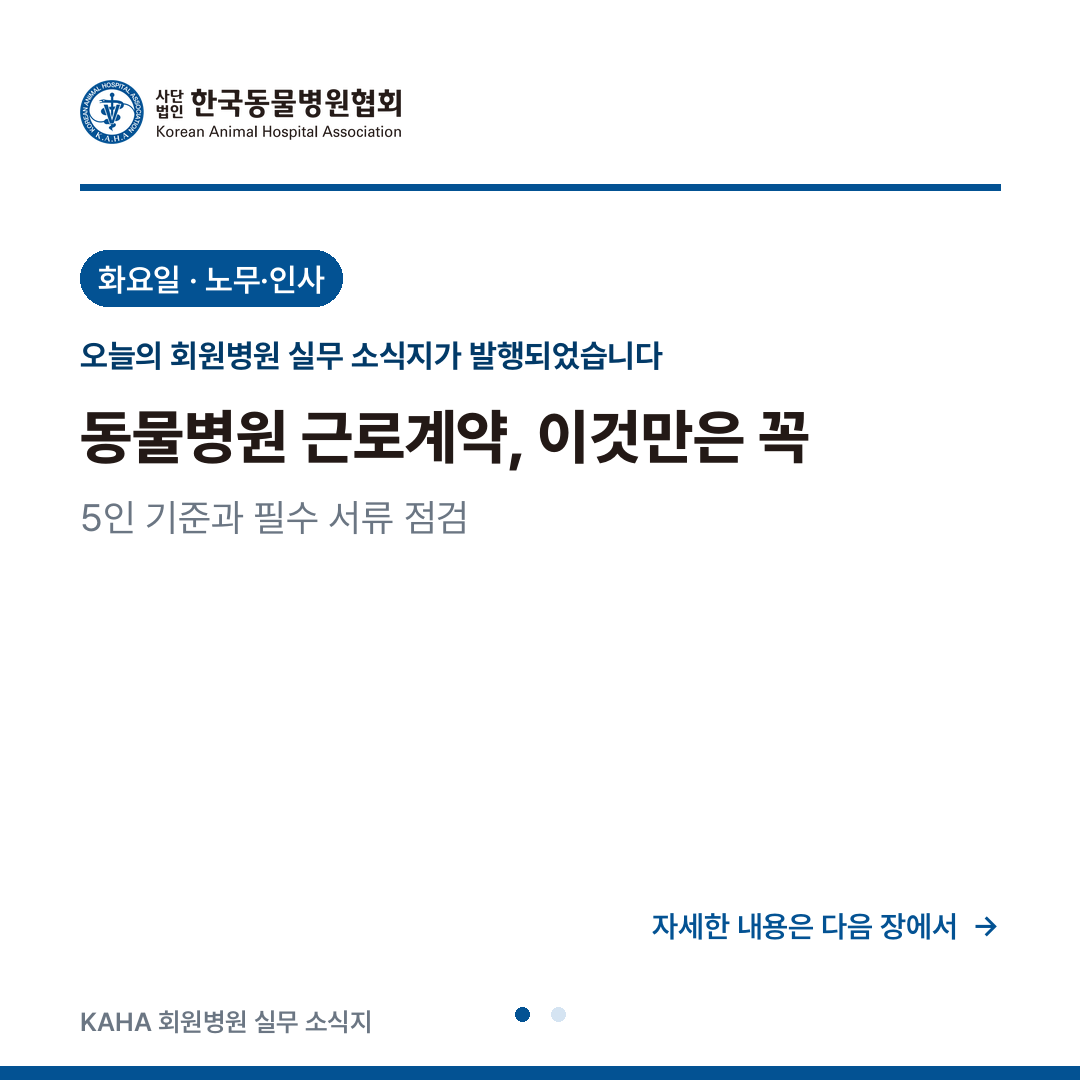
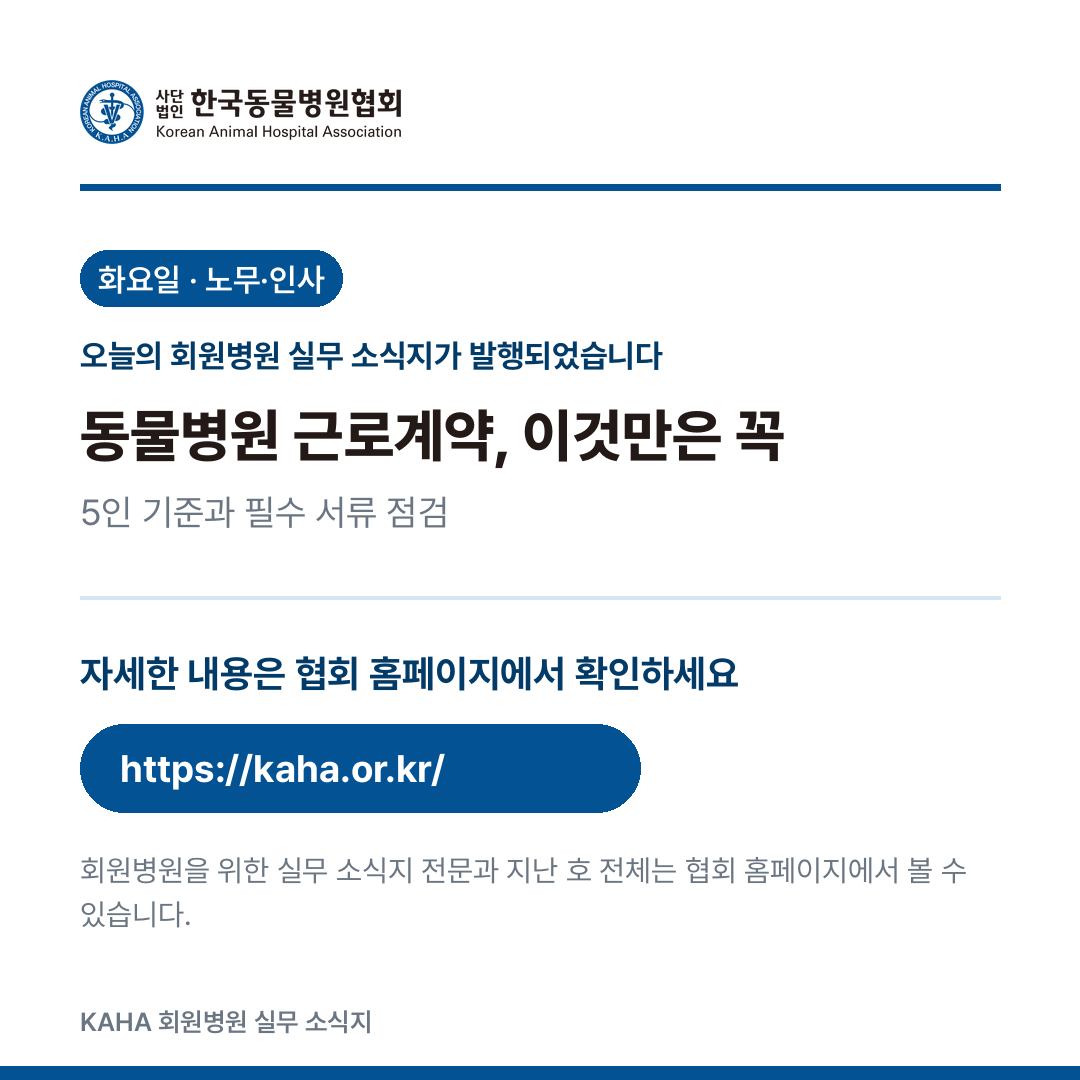
인스타그램 카드뉴스를 1장으로 통합 (전 호 소급 적용)
2장(표지+홈페이지 안내)으로 나눠져 있던 발행 안내 카드를 한 장에
담도록 합쳤다. 제목·부제·요일/테마 아래에 구분선을 두고 홈페이지
유도 문구·링크 버튼을 이어 붙이는 구성이며, 25개 기존 호 전체를
재생성했다.

- tools/make_cards.py: 카드 1장만 생성하도록 레이아웃 재구성,
  footer()에서 페이지 점 표시 제거
- 각 issues/*.md의 인스타그램 카드뉴스 섹션을 이미지 1장 참조로 수정
- README 발행 절차·카드뉴스 원칙 절의 "2장" 표기를 "1장"으로 정정

diff --git a/tools/make_cards.py b/tools/make_cards.py
@@ -1,13 +1,13 @@
 # -*- coding: utf-8 -*-
-"""인스타그램 카드뉴스(1080×1080) 생성 — 발행 안내 전용(2026-08-21 개편).
+"""인스타그램 카드뉴스(1080×1080) 생성 — 발행 안내 전용 1장(2026-08-23 개편).
 
 인스타그램은 회원병원뿐 아니라 보호자 등 일반 대중도 볼 수 있으므로,
 카드에는 조문·수치 등 소식지 세부 내용을 싣지 않는다. "오늘 이런 주제로
-발행되었다"는 안내와 협회 홈페이지 링크만 담는다. 세부 내용은 홈페이지에서
-확인하도록 유도한다.
+발행되었다"는 안내와 협회 홈페이지 링크만 한 장에 담는다. 세부 내용은
+홈페이지에서 확인하도록 유도한다.
 
 tools/cards_data.json의 호별 데이터(제목·부제)를 읽어 cards/<날짜>/ 아래에
-표지 카드 1장 + 홈페이지 안내 카드 1장, caption.txt를 만든다.
+안내 카드 1장, caption.txt를 만든다.
 디자인은 소식지·양식과 같은 브랜드 팔레트(KAHA 블루 #035293)를 쓴다.
 필요: Pillow, 시스템 폰트 fonts-nanum.
 """
@@ -92,15 +92,9 @@ def base_card():
     img = Image.new("RGB", (SIZE, SIZE), WHITE)
     return img, ImageDraw.Draw(img)
 
-def footer(img, draw, page, total):
+def footer(img, draw):
     draw.rectangle([0, SIZE - 14, SIZE, SIZE], fill=BLUE)
     draw.text((80, SIZE - 74), "KAHA 회원병원 실무 소식지", font=F("semibold", 26), fill=GREY)
-    cx = SIZE // 2 - (total - 1) * 18
-    for i in range(total):
-        r = 7
-        fill = BLUE if (i + 1) == page else BLUE_LT
-        draw.ellipse([cx - r, SIZE - 66 - r, cx + r, SIZE - 66 + r], fill=fill)
-        cx += 36
 
 def chip(draw, x, y, text, font, pad=18):
     w = draw.textlength(text, font=font)
@@ -125,51 +119,41 @@ def make_set(date, data):
     os.makedirs(outdir, exist_ok=True)
     dow = datetime.date(*map(int, date.split("-"))).isoweekday()
     theme = THEMES.get(dow, "")
-    total = 2
 
-    # ── 1. 표지: 오늘 발행 안내 (제목 + 한 줄 소개만, 세부 내용 없음) ──
+    # ── 1장: 발행 안내 + 홈페이지 유도 (세부 내용 없음) ──
     img, d = base_card()
     img.paste(logo(64), (80, 80), logo(64))
     d.rectangle([80, 184, SIZE - 80, 190], fill=BLUE)
     chip(d, 80, 250, theme, F("semibold", 32))
     d.text((80, 336), "오늘의 회원병원 실무 소식지가 발행되었습니다",
            font=F("bold", 32), fill=BLUE_DK)
-    tf = F("extrabold", 60)
-    y = draw_lines(d, wrap(d, data["title"], tf, 920), 80, 400, tf, INK, 80)
-    sf = F("regular", 38)
-    y = draw_lines(d, wrap(d, data["subtitle"], sf, 920), 80, y + 14, sf, GREY, 54)
+    tf = F("extrabold", 58)
+    y = draw_lines(d, wrap(d, data["title"], tf, 920), 80, 400, tf, INK, 78)
+    sf = F("regular", 36)
+    y = draw_lines(d, wrap(d, data["subtitle"], sf, 920), 80, y + 12, sf, GREY, 50)
+
+    y += 56
+    d.rectangle([80, y, SIZE - 80, y + 3], fill=BLUE_LT)
+    y += 54
+
+    d.text((80, y), "자세한 내용은 협회 홈페이지에서 확인하세요",
+           font=F("bold", 38), fill=BLUE_DK)
+    y += 74
+    box_w, box_h = 560, 88
+    d.rounded_rectangle([80, y, 80 + box_w, y + box_h], radius=box_h // 2, fill=BLUE)
+    uf = F("bold", 38)
+    d.text((80 + 40, y + (box_h - uf.size) / 2 - 4), SITE_URL, font=uf, fill=WHITE)
+    y += box_h + 40
+    df = F("regular", 30)
+    y = draw_lines(d, wrap(d, "회원병원을 위한 실무 소식지 전문과 지난 호 전체는 협회 홈페이지에서 볼 수 있습니다.", df, 920),
+                   80, y, df, GREY, 44)
+
     if y > CONTENT_MAX_Y:
         OVERFLOW.append("%s cover: y=%d (한계 %d)" % (date, y, CONTENT_MAX_Y))
-    hint = "자세한 내용은 다음 장에서  →"
-    hw = d.textlength(hint, font=F("semibold", 30))
-    d.text((SIZE - 80 - hw, 908), hint, font=F("semibold", 30), fill=BLUE)
-    footer(img, d, page=1, total=total)
+    footer(img, d)
     img.save(os.path.join(outdir, "1-cover.png"))
 
-    # ── 2. 홈페이지 안내: 세부 내용은 협회 홈페이지에서 ──
-    img, d = base_card()
-    img.paste(logo(56), ((SIZE - logo(56).width) // 2, 130), logo(56))
-    hf = F("extrabold", 54)
-    y = draw_lines(d, ["자세한 내용은", "협회 홈페이지에서 확인하세요"],
-                   0, 320, hf, BLUE_DK, 76, center=True)
-    y += 40
-    box_w = 780
-    box_x = (SIZE - box_w) // 2
-    box_h = 96
-    d.rounded_rectangle([box_x, y, box_x + box_w, y + box_h], radius=box_h // 2, fill=BLUE)
-    uf = F("bold", 42)
-    uw = d.textlength(SITE_URL, font=uf)
-    d.text(((SIZE - uw) / 2, y + (box_h - uf.size) / 2 - 6), SITE_URL, font=uf, fill=WHITE)
-    y += box_h + 50
-    df = F("regular", 32)
-    y = draw_lines(d, ["회원병원을 위한 실무 소식지 전문과", "지난 호 전체는 협회 홈페이지에서 볼 수 있습니다."],
-                   0, y, df, GREY, 48, center=True)
-    if y > CONTENT_MAX_Y:
-        OVERFLOW.append("%s info: y=%d (한계 %d)" % (date, y, CONTENT_MAX_Y))
-    footer(img, d, page=2, total=total)
-    img.save(os.path.join(outdir, "2-info.png"))
-
-    for stale in ("3-point2.png", "4-point3.png", "5-outro.png"):
+    for stale in ("2-point1.png", "2-info.png", "3-point2.png", "4-point3.png", "5-outro.png"):
         p = os.path.join(outdir, stale)
         if os.path.exists(p):
             os.remove(p)

diff --git a/README.md b/README.md
@@ -24,7 +24,7 @@
    - 둘째 블록: 발행 정보 인용구(기존 호 형식 참고)
    - 말미에 출처와 면책 문구를 넣습니다.
 2. **팩트체크(필수)**: 아래 「발행 전 팩트체크」 절차를 수행하고 `factcheck/YYYY-MM-DD.md`에 기록을 남깁니다. 팩트체크 기록이 없는 호는 발행하지 않습니다.
-3. **인스타그램 카드뉴스(발행 안내 전용 — 2026-08-23 원장 지시)**: `tools/cards_data.json`에 해당 날짜 항목(제목·부제만)을 추가하고 `python3 tools/make_cards.py YYYY-MM-DD`로 정사각형 카드(1080×1080) **2장**(표지 + 홈페이지 안내)과 caption.txt를 생성한 뒤, 호 말미에 「인스타그램 카드뉴스」 섹션(카드 이미지 + 복사용 캡션 코드블록, 기존 호 형식 참고)을 넣습니다. 캡션은 스크립트가 제목·부제·요일·테마로 자동 생성합니다.
+3. **인스타그램 카드뉴스(발행 안내 전용 — 2026-08-23 원장 지시)**: `tools/cards_data.json`에 해당 날짜 항목(제목·부제만)을 추가하고 `python3 tools/make_cards.py YYYY-MM-DD`로 정사각형 카드(1080×1080) **1장**(발행 안내 + 홈페이지 유도)과 caption.txt를 생성한 뒤, 호 말미에 「인스타그램 카드뉴스」 섹션(카드 이미지 + 복사용 캡션 코드블록, 기존 호 형식 참고)을 넣습니다. 캡션은 스크립트가 제목·부제·요일·테마로 자동 생성합니다.
 4. `archive.json`에 날짜를 추가하고 `latest`를 갱신합니다.
 5. 양식을 만들거나 고쳤다면 **`python3 tools/check_forms.py`를 실행해 골든룰(A4 한 장)을 통과**시킵니다. 실패하면 발행하지 않습니다.
 6. main에 커밋 & 푸시하면 Vercel이 자동 배포합니다.
@@ -33,7 +33,7 @@
 
 **인스타그램은 회원병원뿐 아니라 보호자 등 일반 대중도 볼 수 있는 채널입니다.** 소식지 본문의 조문 번호·수치·법률 해석 같은 실무 세부 내용을 카드에 그대로 옮기면, 전문 지식 없는 보호자가 오해하거나 병원과의 분쟁에 인용할 소지가 있습니다. 따라서 카드뉴스는 **"오늘 이런 주제로 소식지가 발행되었다"는 안내에 그치고, 세부 내용은 신지 않습니다.**
 
-- 카드는 **2장**만 만듭니다 — ①표지(제목·부제·요일/테마), ②홈페이지 안내(`https://kaha.or.kr/`로 유도).
+- 카드는 **1장**만 만듭니다 — 제목·부제·요일/테마와 홈페이지 안내(`https://kaha.or.kr/`)를 한 장에 담습니다.
 - `tools/cards_data.json`에는 **제목·부제만** 저장합니다. 부제도 조문 번호·수치·판정 결과 등 세부 사실을 담지 않고, 주제를 가리키는 한 줄로만 씁니다.
 - 캡션은 `tools/make_cards.py`가 제목·부제·요일·테마로 자동 생성하며, 호마다 별도로 작성하지 않습니다. 해시태그도 고정(`#KAHA #한국동물병원협회 #수의사 #동물병원 #동물병원실무`)입니다.
 - 소식지 본문 자체(마크다운 `issues/`, 협회 홈페이지)에는 이 제한이 적용되지 않습니다. 세부 조문·수치·체크리스트는 그대로 싣되, 그 내용이 카드뉴스로 새어나가지 않게 합니다.

diff --git a/issues/2026-07-27.md b/issues/2026-07-27.md
@@ -42,10 +42,9 @@ AAHA(미국동물병원협회)의 2022년 개 백신 가이드라인은 aaha.org
 
 ## 인스타그램 카드뉴스
 
-인스타그램 게시용 정사각형 카드(1080×1080)입니다. 보호자 등 일반 대중도 볼 수 있는 채널이므로 세부 내용 대신 발행 안내만 담았습니다. 이미지를 저장해 순서대로 업로드하고, 아래 캡션을 붙여넣으세요.
+인스타그램 게시용 정사각형 카드(1080×1080)입니다. 보호자 등 일반 대중도 볼 수 있는 채널이므로 세부 내용 대신 발행 안내 한 장만 담았습니다. 이미지를 저장해 게시하고, 아래 캡션을 붙여넣으세요.
 
-![카드 1 — 표지](cards/2026-07-27/1-cover.png)
-![카드 2 — 홈페이지 안내](cards/2026-07-27/2-info.png)
+![카드 — 발행 안내](cards/2026-07-27/1-cover.png)
 
 **캡션 (복사용)**
 

diff --git a/issues/2026-08-05.md b/issues/2026-08-05.md
@@ -37,10 +37,9 @@ PDF 기록지는 WSAVA 스크리닝 항목을 한 장에 담았습니다: 환자
 
 ## 인스타그램 카드뉴스
 
-인스타그램 게시용 정사각형 카드(1080×1080)입니다. 보호자 등 일반 대중도 볼 수 있는 채널이므로 세부 내용 대신 발행 안내만 담았습니다. 이미지를 저장해 순서대로 업로드하고, 아래 캡션을 붙여넣으세요.
+인스타그램 게시용 정사각형 카드(1080×1080)입니다. 보호자 등 일반 대중도 볼 수 있는 채널이므로 세부 내용 대신 발행 안내 한 장만 담았습니다. 이미지를 저장해 게시하고, 아래 캡션을 붙여넣으세요.
 
-![카드 1 — 표지](cards/2026-08-05/1-cover.png)
-![카드 2 — 홈페이지 안내](cards/2026-08-05/2-info.png)
+![카드 — 발행 안내](cards/2026-08-05/1-cover.png)
 
 **캡션 (복사용)**
 

diff --git a/issues/2026-08-17.md b/issues/2026-08-17.md
@@ -53,10 +53,9 @@ AAHA(미국동물병원협회)가 2023년 **노령동물 관리 가이드라인(
 
 ## 인스타그램 카드뉴스
 
-인스타그램 게시용 정사각형 카드(1080×1080)입니다. 보호자 등 일반 대중도 볼 수 있는 채널이므로 세부 내용 대신 발행 안내만 담았습니다. 이미지를 저장해 순서대로 업로드하고, 아래 캡션을 붙여넣으세요.
+인스타그램 게시용 정사각형 카드(1080×1080)입니다. 보호자 등 일반 대중도 볼 수 있는 채널이므로 세부 내용 대신 발행 안내 한 장만 담았습니다. 이미지를 저장해 게시하고, 아래 캡션을 붙여넣으세요.
 
-![카드 1 — 표지](cards/2026-08-17/1-cover.png)
-![카드 2 — 홈페이지 안내](cards/2026-08-17/2-info.png)
+![카드 — 발행 안내](cards/2026-08-17/1-cover.png)
 
 **캡션 (복사용)**
 

diff --git a/issues/2026-08-12.md b/issues/2026-08-12.md
@@ -89,10 +89,9 @@ ASA 신체상태 분류 (해당 등급에 표시)
 
 ## 인스타그램 카드뉴스
 
-인스타그램 게시용 정사각형 카드(1080×1080)입니다. 보호자 등 일반 대중도 볼 수 있는 채널이므로 세부 내용 대신 발행 안내만 담았습니다. 이미지를 저장해 순서대로 업로드하고, 아래 캡션을 붙여넣으세요.
+인스타그램 게시용 정사각형 카드(1080×1080)입니다. 보호자 등 일반 대중도 볼 수 있는 채널이므로 세부 내용 대신 발행 안내 한 장만 담았습니다. 이미지를 저장해 게시하고, 아래 캡션을 붙여넣으세요.
 
-![카드 1 — 표지](cards/2026-08-12/1-cover.png)
-![카드 2 — 홈페이지 안내](cards/2026-08-12/2-info.png)
+![카드 — 발행 안내](cards/2026-08-12/1-cover.png)
 
 **캡션 (복사용)**
 

diff --git a/issues/2026-08-18.md b/issues/2026-08-18.md
@@ -106,10 +106,9 @@
 
 ## 인스타그램 카드뉴스
 
-인스타그램 게시용 정사각형 카드(1080×1080)입니다. 보호자 등 일반 대중도 볼 수 있는 채널이므로 세부 내용 대신 발행 안내만 담았습니다. 이미지를 저장해 순서대로 업로드하고, 아래 캡션을 붙여넣으세요.
+인스타그램 게시용 정사각형 카드(1080×1080)입니다. 보호자 등 일반 대중도 볼 수 있는 채널이므로 세부 내용 대신 발행 안내 한 장만 담았습니다. 이미지를 저장해 게시하고, 아래 캡션을 붙여넣으세요.
 
-![카드 1 — 표지](cards/2026-08-18/1-cover.png)
-![카드 2 — 홈페이지 안내](cards/2026-08-18/2-info.png)
+![카드 — 발행 안내](cards/2026-08-18/1-cover.png)
 
 **캡션 (복사용)**
 

diff --git a/issues/2026-08-19.md b/issues/2026-08-19.md
@@ -112,10 +112,9 @@
 
 ## 인스타그램 카드뉴스
 
-인스타그램 게시용 정사각형 카드(1080×1080)입니다. 보호자 등 일반 대중도 볼 수 있는 채널이므로 세부 내용 대신 발행 안내만 담았습니다. 이미지를 저장해 순서대로 업로드하고, 아래 캡션을 붙여넣으세요.
+인스타그램 게시용 정사각형 카드(1080×1080)입니다. 보호자 등 일반 대중도 볼 수 있는 채널이므로 세부 내용 대신 발행 안내 한 장만 담았습니다. 이미지를 저장해 게시하고, 아래 캡션을 붙여넣으세요.
 
-![카드 1 — 표지](cards/2026-08-19/1-cover.png)
-![카드 2 — 홈페이지 안내](cards/2026-08-19/2-info.png)
+![카드 — 발행 안내](cards/2026-08-19/1-cover.png)
 
 **캡션 (복사용)**
 
